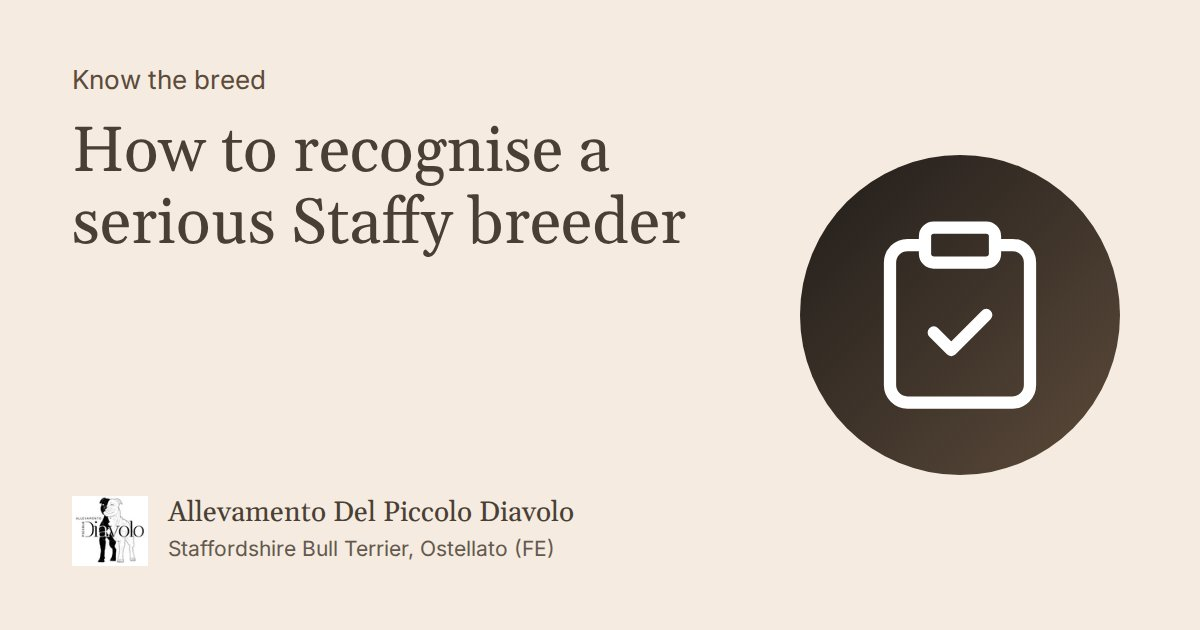
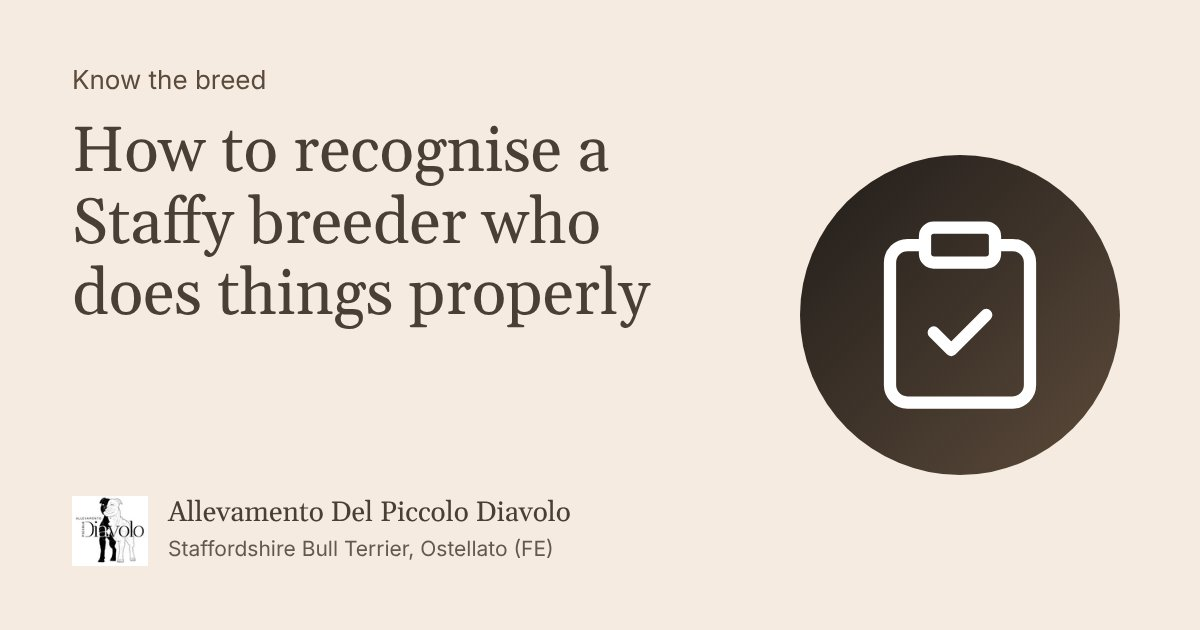
«Allevamento serio» diventa «allevamento che fa le cose per bene» ovunque (titolo della guida, FAQ, link, Blog, llms.txt, schede di condivisione), IT/EN/DE
Claude-Session: https://claude.ai/code/session_01Wpbf6UX9jwa1fzaGtM5hoN

diff --git a/content/de/blog.md b/content/de/blog.md
@@ -38,7 +38,7 @@ custom_content: |
 
   <section class="section">
   <div class="section-inner content-single">
-  <p>Dieser Blog sammelt die Ratgeber, die wir über den Staffordshire Bull Terrier schreiben, nach Themen geordnet: Rasse und Gesetz, Welpen, Standard und Blutlinien, Gesundheit, Familie und Zusammenleben. Es sind keine Artikel, die geschrieben wurden, um die Website zu füllen: Sie entstehen aus den Fragen, die uns wirklich gestellt werden, und wo nötig sagen sie auch das Unbequeme &mdash; dass Tests Grenzen haben, dass Reaktivität gegenüber anderen Hunden existiert, dass eine verbreitete Methode die Belege nicht hat, die sie verspricht. Wo wir eine Zahl nennen, geben wir die Quelle an: ENCI, britischer Kennel Club, tierärztliche Leitlinien oder veröffentlichte Studien. <strong>Die meistgelesenen Ratgeber</strong> sind die darüber, wie man eine seriöse Zucht erkennt, über die Gentests L2-HGA und HC und darüber, wie man eine Ahnentafel liest.</p>
+  <p>Dieser Blog sammelt die Ratgeber, die wir über den Staffordshire Bull Terrier schreiben, nach Themen geordnet: Rasse und Gesetz, Welpen, Standard und Blutlinien, Gesundheit, Familie und Zusammenleben. Es sind keine Artikel, die geschrieben wurden, um die Website zu füllen: Sie entstehen aus den Fragen, die uns wirklich gestellt werden, und wo nötig sagen sie auch das Unbequeme &mdash; dass Tests Grenzen haben, dass Reaktivität gegenüber anderen Hunden existiert, dass eine verbreitete Methode die Belege nicht hat, die sie verspricht. Wo wir eine Zahl nennen, geben wir die Quelle an: ENCI, britischer Kennel Club, tierärztliche Leitlinien oder veröffentlichte Studien. <strong>Die meistgelesenen Ratgeber</strong> sind die darüber, wie man eine Zucht erkennt, die gut arbeitet, über die Gentests L2-HGA und HC und darüber, wie man eine Ahnentafel liest.</p>
   </div>
   </section>
 
@@ -121,12 +121,12 @@ custom_content: |
   </div>
   </article>
   <article class="blog-card">
-  <a href="/de/wie-waehlt-man-eine-staffordshire-bull-terrier-zucht/" title="Lesen: Wie man eine seriöse Zucht erkennt"><div class="blog-card-thumb"><img alt="Staffordshire Bull Terrier Welpen im Gras einer seriösen Zucht" decoding="async" height="188" loading="lazy" src="/images/blog/icone/come-scegliere-allevamento-staffordshire-bull-terrier.webp" width="300"/></div></a>
+  <a href="/de/wie-waehlt-man-eine-staffordshire-bull-terrier-zucht/" title="Lesen: Wie man eine Zucht erkennt, die gut arbeitet"><div class="blog-card-thumb"><img alt="Staffordshire Bull Terrier Welpen im Gras einer seriösen Zucht" decoding="async" height="188" loading="lazy" src="/images/blog/icone/come-scegliere-allevamento-staffordshire-bull-terrier.webp" width="300"/></div></a>
   <div class="blog-card-body">
   <div class="blog-card-meta"><span class="date">18 Jan 2026</span><span>•</span><span class="cat">Welpen</span></div>
-  <h3><a href="/de/wie-waehlt-man-eine-staffordshire-bull-terrier-zucht/" title="Lesen: Wie man eine seriöse Zucht erkennt">Wie man eine seriöse Zucht erkennt</a></h3>
+  <h3><a href="/de/wie-waehlt-man-eine-staffordshire-bull-terrier-zucht/" title="Lesen: Wie man eine Zucht erkennt, die gut arbeitet">Wie man eine Zucht erkennt, die gut arbeitet</a></h3>
   <p>Acht Kriterien und wie man sie überprüft, mit unseren Unterlagen als Beispiel.</p>
-  <a aria-label="Artikel lesen: Wie man eine seriöse Zucht erkennt" class="read" href="/de/wie-waehlt-man-eine-staffordshire-bull-terrier-zucht/">Lesen<span class="sr-only">: Wie man eine seriöse Zucht erkennt</span> →</a>
+  <a aria-label="Artikel lesen: Wie man eine Zucht erkennt, die gut arbeitet" class="read" href="/de/wie-waehlt-man-eine-staffordshire-bull-terrier-zucht/">Lesen<span class="sr-only">: Wie man eine Zucht erkennt, die gut arbeitet</span> →</a>
   </div>
   </article>
   <article class="blog-card">

diff --git a/content/it/blog.md b/content/it/blog.md
@@ -33,7 +33,7 @@ custom_content: |
   </div>
 
   <!-- RAZZA E LEGISLAZIONE -->
-    <p>Questo blog raccoglie le guide che scriviamo sullo Staffordshire Bull Terrier, divise per argomento: razza e legislazione, cuccioli, standard e linee di sangue, salute, famiglia e convivenza. Non sono articoli scritti per riempire il sito: nascono dalle domande che ci fanno davvero, e dove serve dicono anche le cose scomode &mdash; che i test hanno dei limiti, che la reattivit&agrave; verso altri cani esiste, che un metodo diffuso non ha le prove che promette. Dove citiamo un dato, indichiamo la fonte: ENCI, Kennel Club britannico, linee guida veterinarie o studi pubblicati. <strong>Le guide pi&ugrave; lette</strong> sono quelle su come riconoscere un allevamento serio, sui test genetici L2-HGA e HC e su come si legge un pedigree.</p>
+    <p>Questo blog raccoglie le guide che scriviamo sullo Staffordshire Bull Terrier, divise per argomento: razza e legislazione, cuccioli, standard e linee di sangue, salute, famiglia e convivenza. Non sono articoli scritti per riempire il sito: nascono dalle domande che ci fanno davvero, e dove serve dicono anche le cose scomode &mdash; che i test hanno dei limiti, che la reattivit&agrave; verso altri cani esiste, che un metodo diffuso non ha le prove che promette. Dove citiamo un dato, indichiamo la fonte: ENCI, Kennel Club britannico, linee guida veterinarie o studi pubblicati. <strong>Le guide pi&ugrave; lette</strong> sono quelle su come riconoscere un allevamento che fa le cose per bene, sui test genetici L2-HGA e HC e su come si legge un pedigree.</p>
 
   <!--BLOCCO:2-->
   <!--RECENTI-->
@@ -109,12 +109,12 @@ custom_content: |
   </div>
   </article>
   <article class="blog-card">
-  <a href="/come-scegliere-allevamento-staffordshire-bull-terrier/" title="Leggi: Come riconoscere un allevamento serio"><div class="blog-card-thumb"><img alt="Come riconoscere un allevamento Staffordshire Bull Terrier serio" decoding="async" height="188" loading="lazy" src="/images/blog/icone/come-scegliere-allevamento-staffordshire-bull-terrier.webp" width="300"/></div></a>
+  <a href="/come-scegliere-allevamento-staffordshire-bull-terrier/" title="Leggi: Come riconoscere un allevamento che fa le cose per bene"><div class="blog-card-thumb"><img alt="Come riconoscere un allevamento Staffordshire Bull Terrier che fa le cose per bene" decoding="async" height="188" loading="lazy" src="/images/blog/icone/come-scegliere-allevamento-staffordshire-bull-terrier.webp" width="300"/></div></a>
   <div class="blog-card-body">
   <div class="blog-card-meta"><span class="date">18 Gen 2026</span><span>•</span><span class="cat">Cuccioli</span></div>
-  <h3><a href="/come-scegliere-allevamento-staffordshire-bull-terrier/" title="Leggi: Come riconoscere un allevamento serio">Come riconoscere un allevamento serio</a></h3>
+  <h3><a href="/come-scegliere-allevamento-staffordshire-bull-terrier/" title="Leggi: Come riconoscere un allevamento che fa le cose per bene">Come riconoscere un allevamento che fa le cose per bene</a></h3>
   <p>Otto criteri e il modo di verificarli, con i nostri documenti come esempio.</p>
-  <a aria-label="Leggi l'articolo: Come riconoscere un allevamento serio" class="read" href="/come-scegliere-allevamento-staffordshire-bull-terrier/" title="Leggi articolo completo">Leggi<span class="sr-only">: Come riconoscere un allevamento serio</span> →</a>
+  <a aria-label="Leggi l'articolo: Come riconoscere un allevamento che fa le cose per bene" class="read" href="/come-scegliere-allevamento-staffordshire-bull-terrier/" title="Leggi articolo completo">Leggi<span class="sr-only">: Come riconoscere un allevamento che fa le cose per bene</span> →</a>
   </div>
   </article>
   <article class="blog-card">

diff --git a/content/en/blog.md b/content/en/blog.md
@@ -38,7 +38,7 @@ custom_content: |
 
   <section class="section">
   <div class="section-inner content-single">
-  <p>This blog collects the guides we write about the Staffordshire Bull Terrier, divided by topic: breed and legislation, puppies, standard and bloodlines, health, family and living together. They are not articles written to fill the site: they come from the questions people really ask us, and where needed they also say the uncomfortable things &mdash; that tests have limits, that reactivity towards other dogs exists, that a popular method does not have the evidence it promises. Where we cite a figure, we give the source: ENCI, the UK Kennel Club, veterinary guidelines or published studies. <strong>The most read guides</strong> are the ones on how to recognise a serious breeder, on the L2-HGA and HC genetic tests and on how to read a pedigree.</p>
+  <p>This blog collects the guides we write about the Staffordshire Bull Terrier, divided by topic: breed and legislation, puppies, standard and bloodlines, health, family and living together. They are not articles written to fill the site: they come from the questions people really ask us, and where needed they also say the uncomfortable things &mdash; that tests have limits, that reactivity towards other dogs exists, that a popular method does not have the evidence it promises. Where we cite a figure, we give the source: ENCI, the UK Kennel Club, veterinary guidelines or published studies. <strong>The most read guides</strong> are the ones on how to recognise a breeder who does things properly, on the L2-HGA and HC genetic tests and on how to read a pedigree.</p>
   </div>
   </section>
 
@@ -121,12 +121,12 @@ custom_content: |
   </div>
   </article>
   <article class="blog-card">
-  <a href="/en/how-to-choose-a-staffordshire-bull-terrier-breeder/" title="Read: How to recognise a serious breeder"><div class="blog-card-thumb"><img alt="Staffordshire Bull Terrier puppies in the grass at a serious kennel" decoding="async" height="188" loading="lazy" src="/images/blog/icone/come-scegliere-allevamento-staffordshire-bull-terrier.webp" width="300"/></div></a>
+  <a href="/en/how-to-choose-a-staffordshire-bull-terrier-breeder/" title="Read: How to recognise a breeder who does things properly"><div class="blog-card-thumb"><img alt="Staffordshire Bull Terrier puppies in the grass at a serious kennel" decoding="async" height="188" loading="lazy" src="/images/blog/icone/come-scegliere-allevamento-staffordshire-bull-terrier.webp" width="300"/></div></a>
   <div class="blog-card-body">
   <div class="blog-card-meta"><span class="date">18 Jan 2026</span><span>•</span><span class="cat">Puppies</span></div>
-  <h3><a href="/en/how-to-choose-a-staffordshire-bull-terrier-breeder/" title="Read: How to recognise a serious breeder">How to recognise a serious breeder</a></h3>
+  <h3><a href="/en/how-to-choose-a-staffordshire-bull-terrier-breeder/" title="Read: How to recognise a breeder who does things properly">How to recognise a breeder who does things properly</a></h3>
   <p>Eight criteria and how to check each one, with our own documents as the example.</p>
-  <a aria-label="Read the article: How to recognise a serious breeder" class="read" href="/en/how-to-choose-a-staffordshire-bull-terrier-breeder/">Read<span class="sr-only">: How to recognise a serious breeder</span> →</a>
+  <a aria-label="Read the article: How to recognise a breeder who does things properly" class="read" href="/en/how-to-choose-a-staffordshire-bull-terrier-breeder/">Read<span class="sr-only">: How to recognise a breeder who does things properly</span> →</a>
   </div>
   </article>
   <article class="blog-card">

diff --git a/content/de/_index.md b/content/de/_index.md
@@ -98,7 +98,7 @@ custom_content: |
 
   <div class="n-percorso"><div class="n-passo"><h3>Wir haben nicht das ganze Jahr über Welpen.</h3><div><p>Ein Wurf, gelegentlich zwei, manchmal keiner. Wenn Sie uns zu einem Zeitpunkt schreiben, an dem es keine gibt, lautet die Antwort, dass es keine gibt: wir bieten Ihnen nicht den Welpen eines Bekannten an und drängen Sie nicht zu einem künftigen Wurf.</p></div></div><div class="n-passo"><h3>Wir versenden keine Hunde.</h3><div><p>Keiner unserer Welpen reist per Kurier: kein Frachtraum, keine Übergabe auf halbem Weg auf einem Parkplatz. Wer einen Welpen nimmt, kommt nach Ostellato. So sieht er die Mutter, das Haus und den Ort, an dem er aufgewachsen ist.</p></div></div><div class="n-passo"><h3>Wir behandeln die Ahnentafel nicht als Zubehör.</h3><div><p>Es gibt keinen Welpen „mit“ oder „ohne“: die ENCI-Ahnentafel begleitet jeden Hund und wird nicht gesondert berechnet.</p></div></div><div class="n-passo"><h3>Wir nehmen Fragen zur Zucht nicht übel.</h3><div><p>Im Gegenteil, sie sagen uns, wen wir vor uns haben. Wer nach den Tests fragt, nach den Eltern, danach, was passiert, wenn er den Hund in zwei Jahren nicht mehr halten kann, ist die Person, der wir gerne einen Welpen anvertrauen.</p></div></div></div>
   <p class="n-vedi">Wer hinter all dem steht, und wie man von Rottweilern zu Staffys kommt: das erzählen wir unter <a href="/de/ueber-uns/" title="Über uns">über uns</a>.</p>
-  <p class="n-vedi"><a href="/de/wie-waehlt-man-eine-staffordshire-bull-terrier-zucht/">Wie man eine seriöse Zucht erkennt</a>. Acht Kriterien und wie man sie prüft — bei uns wie bei allen anderen.</p>
+  <p class="n-vedi"><a href="/de/wie-waehlt-man-eine-staffordshire-bull-terrier-zucht/">Wie man eine Zucht erkennt, die gut arbeitet</a>. Acht Kriterien und wie man sie prüft — bei uns wie bei allen anderen.</p>
   </div>
   </section>
   <!--/BLOCCO:4-->
@@ -164,7 +164,7 @@ custom_content: |
   <div>
   <p>Das gilt auch umgekehrt. Wenn ein Welpe durch Abstammung frei von einer Krankheit ist, aber nicht von einer anderen, schreiben wir das. Wenn wir von einem fremden Deckrüden den Befund für zwei Erkrankungen haben und nicht für vier, schreiben wir das.</p>
   <p>Es ist der Teil, den niemand gerne erzählt, und es ist auch der Grund, warum der Rest Bestand hat: eine Zucht, die nur die schönen Dinge angibt, informiert nicht, sie wirbt.</p>
-  <p>Wenn Sie uns oder eine andere Zucht beurteilen, finden Sie im Ratgeber <a href="/de/wie-waehlt-man-eine-staffordshire-bull-terrier-zucht/" title="Wie man eine seriöse Zucht erkennt">wie man eine seriöse Zucht erkennt</a> die acht Kriterien und wie man sie prüft, bei uns wie bei allen anderen.</p>
+  <p>Wenn Sie uns oder eine andere Zucht beurteilen, finden Sie im Ratgeber <a href="/de/wie-waehlt-man-eine-staffordshire-bull-terrier-zucht/" title="Wie man eine Zucht erkennt, die gut arbeitet">wie man eine Zucht erkennt, die gut arbeitet</a> die acht Kriterien und wie man sie prüft, bei uns wie bei allen anderen.</p>
   <p>Wie ein Wurf entsteht, erzählen wir im <a href="/de/wuerfe-staffordshire-bull-terrier/" title="Zuchtprogramm">Zuchtprogramm</a>: die Wahl der beiden Elterntiere, die Wochen im Haus, die Zuordnung zur Familie. Dort steht auch die Geschichte der Würfe.</p>
   </div>
   </div>

diff --git a/content/it/_index.md b/content/it/_index.md
@@ -97,7 +97,7 @@ custom_content: |
 
   <div class="n-percorso"><div class="n-passo"><h3>Non abbiamo cuccioli tutto l'anno.</h3><div><p>Una cucciolata, occasionalmente due, a volte nessuna. Se ci scrivi in un momento in cui non ce ne sono, la risposta è che non ce ne sono: non ti proponiamo il cucciolo di un conoscente né ti mettiamo fretta su una cucciolata futura.</p></div></div><div class="n-passo"><h3>Non spediamo cani.</h3><div><p>Nessun nostro cucciolo viaggia con un corriere: niente stive, niente consegne a metà strada in un parcheggio. Chi prende un cucciolo viene a Ostellato. Così vede la madre, la casa e il posto dove è cresciuto.</p></div></div><div class="n-passo"><h3>Non trattiamo il pedigree come un accessorio.</h3><div><p>Non esiste un cucciolo «con» o «senza»: il certificato ENCI accompagna ogni cane e non si paga a parte.</p></div></div><div class="n-passo"><h3>Non ci offendiamo se fai domande sull'allevamento.</h3><div><p>Anzi, sono quelle a dirci chi abbiamo davanti. Chi chiede dei test, dei genitori, di cosa succede se fra due anni non riesce più a tenere il cane, è la persona a cui affideremmo volentieri un cucciolo.</p></div></div></div>
   <p class="n-vedi">Chi c'è dietro tutto questo, e come dai Rottweiler si arriva agli Staffy: lo racconto in <a href="/chi-siamo/" title="Chi siamo">chi siamo</a>.</p>
-  <p class="n-vedi"><a href="/come-scegliere-allevamento-staffordshire-bull-terrier/">Come riconoscere un allevamento serio</a>. Otto criteri e il modo di verificarli, su di noi come su chiunque altro.</p>
+  <p class="n-vedi"><a href="/come-scegliere-allevamento-staffordshire-bull-terrier/">Come riconoscere un allevamento che fa le cose per bene</a>. Otto criteri e il modo di verificarli, su di noi come su chiunque altro.</p>
   </div>
   </section>
   <!--/BLOCCO:4-->
@@ -163,7 +163,7 @@ custom_content: |
   <div>
   <p>Vale anche al contrario. Quando un cucciolo è esente per discendenza da una malattia ma non da un'altra, lo scriviamo. Quando di un riproduttore esterno abbiamo il referto per due patologie e non per quattro, lo scriviamo.</p>
   <p>È la parte che nessuno racconta volentieri, ed è anche la ragione per cui il resto sta in piedi: un allevamento che dichiara solo le cose belle non sta dando informazioni, sta facendo pubblicità.</p>
-  <p>Se stai valutando noi, o un altro allevamento, la guida su <a href="/come-scegliere-allevamento-staffordshire-bull-terrier/" title="Come riconoscere un allevamento serio">come riconoscere un allevamento serio</a> elenca gli otto criteri e come verificarli, su di noi come su chiunque altro.</p>
+  <p>Se stai valutando noi, o un altro allevamento, la guida su <a href="/come-scegliere-allevamento-staffordshire-bull-terrier/" title="Come riconoscere un allevamento che fa le cose per bene">come riconoscere un allevamento che fa le cose per bene</a> elenca gli otto criteri e come verificarli, su di noi come su chiunque altro.</p>
   <p>Come nasce una cucciolata lo raccontiamo nel <a href="/programma-allevamento/" title="Programma di allevamento">programma di allevamento</a>: la scelta dei due riproduttori, le settimane in casa, l'abbinamento con la famiglia. Lì c'è anche lo storico delle cucciolate.</p>
   </div>
   </div>

diff --git a/content/en/_index.md b/content/en/_index.md
@@ -98,7 +98,7 @@ custom_content: |
 
   <div class="n-percorso"><div class="n-passo"><h3>We do not have puppies all year round.</h3><div><p>One litter, occasionally two, sometimes none. If you write to us at a time when there are none, the answer is that there are none: we do not offer you an acquaintance's puppy and we do not rush you towards a future litter.</p></div></div><div class="n-passo"><h3>We do not ship dogs.</h3><div><p>None of our puppies travels by courier: no aircraft holds, no handovers halfway in a car park. Whoever takes a puppy comes to Ostellato. That way they see the mother, the house and the place where it grew up.</p></div></div><div class="n-passo"><h3>We do not treat the pedigree as an accessory.</h3><div><p>There is no such thing as a puppy “with” or “without”: the ENCI certificate goes with every dog and is not charged separately.</p></div></div><div class="n-passo"><h3>We do not take offence at questions about the kennel.</h3><div><p>On the contrary, they are what tell us who we are dealing with. Whoever asks about the tests, the parents, or what happens if in two years' time they can no longer keep the dog, is the person we would gladly entrust a puppy to.</p></div></div></div>
   <p class="n-vedi">Who is behind all this, and how one gets from Rottweilers to Staffies: the story is in <a href="/en/about-us/" title="About us">about us</a>.</p>
-  <p class="n-vedi"><a href="/en/how-to-choose-a-staffordshire-bull-terrier-breeder/">How to recognise a serious breeder</a>. Eight criteria and how to check each one, on us as much as on anyone else.</p>
+  <p class="n-vedi"><a href="/en/how-to-choose-a-staffordshire-bull-terrier-breeder/">How to recognise a breeder who does things properly</a>. Eight criteria and how to check each one, on us as much as on anyone else.</p>
   </div>
   </section>
   <!--/BLOCCO:4-->
@@ -164,7 +164,7 @@ custom_content: |
   <div>
   <p>It also works the other way round. When a puppy is clear by parentage for one disease but not for another, we say so. When for an outside stud we have the report for two conditions and not for four, we say so.</p>
   <p>It is the part nobody likes to tell, and it is also the reason the rest stands up: a kennel that only declares the good things is not giving information, it is advertising.</p>
-  <p>If you are assessing us, or another kennel, the guide on <a href="/en/how-to-choose-a-staffordshire-bull-terrier-breeder/" title="How to recognise a serious breeder">how to recognise a serious breeder</a> lists the eight criteria and how to check them, on us as on anyone else.</p>
+  <p>If you are assessing us, or another kennel, the guide on <a href="/en/how-to-choose-a-staffordshire-bull-terrier-breeder/" title="How to recognise a breeder who does things properly">how to recognise a breeder who does things properly</a> lists the eight criteria and how to check them, on us as on anyone else.</p>
   <p>How a litter comes about is told in the <a href="/en/litters-staffordshire-bull-terrier/" title="Breeding programme">breeding programme</a>: the choice of the two parents, the weeks in the house, the matching with the family. The history of the litters is there too.</p>
   </div>
   </div>

diff --git a/content/de/blutlinien-waehlen.md b/content/de/blutlinien-waehlen.md
@@ -78,7 +78,7 @@ custom_content: |
   <p>Warum genau diese beiden Hunde? Wer ein Programm hat, antwortet mit dem, was jedes Elterntier einbringt, was verbessert werden sollte und welcher Kompromiss dafür akzeptiert wurde. Ohne Programm lautet die Antwort, dass beide schön sind.</p>
   <p>Was würden Sie an diesem Wurf ändern? Wer ehrlich ist, hat eine konkrete Antwort.</p>
   <p>Wo leben die Welpen? Welpen, die in der Küche zwischen Haushaltsgeräuschen aufwachsen, sind, wenn sie abgegeben werden, <a href="/de/sozialisierte-welpen-was-das-heisst/" title="Sozialisierte Welpen: was das wirklich heißt">deutlich besser sozialisiert</a> als Welpen aus einem sauberen Außenzwinger, und der Unterschied bleibt.</p>
-  <p>Was passiert, wenn es nicht funktioniert? Die richtige Antwort lautet, dass der Hund zum Züchter zurückkommen kann, in jedem Alter, aus jedem Grund, und dass es im Vermittlungsvertrag steht. Die vollständige Liste der Fragen und wie man die Antworten prüft, steht im Ratgeber <a href="/de/wie-waehlt-man-eine-staffordshire-bull-terrier-zucht/" title="Eine seriöse Zucht erkennen">eine seriöse Zucht erkennen</a>.</p>
+  <p>Was passiert, wenn es nicht funktioniert? Die richtige Antwort lautet, dass der Hund zum Züchter zurückkommen kann, in jedem Alter, aus jedem Grund, und dass es im Vermittlungsvertrag steht. Die vollständige Liste der Fragen und wie man die Antworten prüft, steht im Ratgeber <a href="/de/wie-waehlt-man-eine-staffordshire-bull-terrier-zucht/" title="Eine Zucht erkennen, die gut arbeitet">eine Zucht erkennen, die gut arbeitet</a>.</p>
   <!--/BLOCCO:6-->
 
   <!--BLOCCO:7-->
@@ -144,7 +144,7 @@ custom_content: |
   <h3>Mehr zum Thema</h3>
   <ul>
   <li><a href="/de/staffy-gentests-l2hga-hc/" title="Staffy Gentests: L2-HGA, HC (HSF4) und DM (SOD1)">Staffy Gentests: L2-HGA, HC (HSF4) und DM (SOD1)</a></li>
-  <li><a href="/de/wie-waehlt-man-eine-staffordshire-bull-terrier-zucht/" title="Seriöse Staffordshire Bull Terrier Zucht erkennen">Seriöse Staffordshire Bull Terrier Zucht erkennen</a></li>
+  <li><a href="/de/wie-waehlt-man-eine-staffordshire-bull-terrier-zucht/" title="Staffordshire Bull Terrier Zucht erkennen, die gut arbeitet">Staffordshire Bull Terrier Zucht erkennen, die gut arbeitet</a></li>
   <li><a href="/de/staffy-rassestandard/" title="FCI Rassestandard Staffordshire Bull Terrier">FCI Rassestandard Staffordshire Bull Terrier</a></li>
   <li><a href="/de/staffy-pitbull-amstaff-unterschied/" title="Staffordshire Bull Terrier, Pitbull und Amstaff im Vergleich">Staffordshire Bull Terrier, Pitbull und Amstaff im Vergleich</a></li>
   </ul>

diff --git a/content/en/choosing-bloodlines.md b/content/en/choosing-bloodlines.md
@@ -78,7 +78,7 @@ custom_content: |
   <p>Why these two dogs? A breeder with a programme answers in terms of what each parent brings, what they hoped to improve and what compromise they accepted. Without one, the answer is that both parents are beautiful.</p>
   <p>What would you change about this litter? Anyone honest has an answer, and it is usually specific.</p>
   <p>Where do the puppies live? Puppies raised in a kitchen among household noise are meaningfully <a href="/en/socialised-puppies-what-it-means/" title="Socialised puppies: what it really means">better socialised by the time they leave</a> than puppies raised in a clean outdoor kennel, and the difference persists.</p>
-  <p>What happens if it does not work out? The right answer is that the dog can come back to the breeder, at any age, for any reason, and that it is written in the placement agreement. The full list of questions to ask, and how to check the answers, is in the guide to <a href="/en/how-to-choose-a-staffordshire-bull-terrier-breeder/" title="How to recognise a serious breeder">how to recognise a serious breeder</a>.</p>
+  <p>What happens if it does not work out? The right answer is that the dog can come back to the breeder, at any age, for any reason, and that it is written in the placement agreement. The full list of questions to ask, and how to check the answers, is in the guide to <a href="/en/how-to-choose-a-staffordshire-bull-terrier-breeder/" title="How to recognise a breeder who does things properly">how to recognise a breeder who does things properly</a>.</p>
   <!--/BLOCCO:6-->
 
   <!--BLOCCO:7-->
@@ -144,7 +144,7 @@ custom_content: |
   <h3>More on this topic</h3>
   <ul>
   <li><a href="/en/staffy-genetic-testing-l2hga-hc/" title="Staffy genetic testing: L2-HGA, HC (HSF4) and DM (SOD1)">Staffy genetic testing: L2-HGA, HC (HSF4) and DM (SOD1)</a></li>
-  <li><a href="/en/how-to-choose-a-staffordshire-bull-terrier-breeder/" title="How to recognise a serious Staffy breeder">How to recognise a serious Staffy breeder</a></li>
+  <li><a href="/en/how-to-choose-a-staffordshire-bull-terrier-breeder/" title="How to recognise a Staffy breeder who does things properly">How to recognise a Staffy breeder who does things properly</a></li>
   <li><a href="/en/staffy-breed-standard/" title="Staffordshire Bull Terrier breed standard explained">Staffordshire Bull Terrier breed standard explained</a></li>
   <li><a href="/en/staffy-pitbull-amstaff-difference/" title="Staffordshire Bull Terrier, Pitbull and Amstaff compared">Staffordshire Bull Terrier, Pitbull and Amstaff compared</a></li>
   </ul>

diff --git a/content/it/come-scegliere-allevamento-staffordshire-bull-terrier.md b/content/it/come-scegliere-allevamento-staffordshire-bull-terrier.md
@@ -1,11 +1,11 @@
 ---
-title: "Come riconoscere un allevamento Staffordshire Bull Terrier serio"
-titleSeo: "Come riconoscere un allevamento di Staffy serio"
+title: "Come riconoscere un allevamento Staffordshire Bull Terrier che fa le cose per bene"
+titleSeo: "Come riconoscere un allevamento di Staffy che fa le cose per bene"
 articolo: true
 translationKey: "come-scegliere"
 image: "/images/blog/cucciolata-erba.avif"
 og_image: "/images/og/schede/it/come-scegliere-allevamento-staffordshire-bull-terrier.jpg"
-og_image_alt: "Come riconoscere un allevamento di Staffy serio — Allevamento Del Piccolo Diavolo"
+og_image_alt: "Come riconoscere un allevamento di Staffy che fa le cose per bene — Allevamento Del Piccolo Diavolo"
 thumb: "/images/blog/icone/come-scegliere-allevamento-staffordshire-bull-terrier.webp"
 description: "Otto criteri per riconoscere un allevamento Staffordshire Bull Terrier serio, ognuno con il modo di verificarlo. Con i nostri documenti come esempio."
 slug: "come-scegliere-allevamento-staffordshire-bull-terrier"
@@ -24,7 +24,7 @@ lastmod: 2026-10-17
 </div>
 <div class="hero-content">
 <span class="hero-eyebrow">Guida</span>
-<h1 class="hero-title">Come riconoscere un allevamento <em>Staffordshire Bull Terrier</em> serio</h1>
+<h1 class="hero-title">Come riconoscere un allevamento <em>Staffordshire Bull Terrier</em> che fa le cose per bene</h1>
 <p class="hero-subtitle">Otto criteri, e il modo di verificarli senza fidarsi sulla parola</p>
 <div class="hero-meta">
 <span>&#9201;&#65039; 8 min lettura</span>
@@ -39,7 +39,7 @@ lastmod: 2026-10-17
 <a href="/" title="Home">Home</a> &rsaquo;
 <a href="/blog/" title="Blog">Blog</a> &rsaquo;
 <a aria-label="Cuccioli &mdash; categoria del blog" href="/blog/#cuccioli" title="Articoli Cuccioli">Cuccioli</a> &rsaquo;
-<span>Come riconoscere un allevamento serio</span>
+<span>Come riconoscere un allevamento che fa le cose per bene</span>
 </nav>
 
 

diff --git a/content/en/how-to-choose-a-staffordshire-bull-terrier-breeder.md b/content/en/how-to-choose-a-staffordshire-bull-terrier-breeder.md
@@ -1,11 +1,11 @@
 ---
-title: "How to recognise a serious Staffordshire Bull Terrier breeder"
-titleSeo: "How to recognise a serious Staffy breeder"
+title: "How to recognise a Staffordshire Bull Terrier breeder who does things properly"
+titleSeo: "How to recognise a Staffy breeder who does things properly"
 articolo: true
 translationKey: "come-scegliere"
 image: "/images/blog/cucciolata-erba.avif"
 og_image: "/images/og/schede/en/how-to-choose-a-staffordshire-bull-terrier-breeder.jpg"
-og_image_alt: "How to recognise a serious Staffy breeder — Allevamento Del Piccolo Diavolo"
+og_image_alt: "How to recognise a Staffy breeder who does things properly — Allevamento Del Piccolo Diavolo"
 thumb: "/images/blog/icone/come-scegliere-allevamento-staffordshire-bull-terrier.webp"
 description: "Eight criteria for recognising a serious Staffordshire Bull Terrier breeder, each with the way to verify it. With our own documents as the worked example."
 slug: "how-to-choose-a-staffordshire-bull-terrier-breeder"
@@ -24,7 +24,7 @@ lastmod: 2026-10-17
 </div>
 <div class="hero-content">
 <span class="hero-eyebrow">Guide</span>
-<h1 class="hero-title">How to recognise a serious <em>Staffordshire Bull Terrier</em> breeder</h1>
+<h1 class="hero-title">How to recognise a <em>Staffordshire Bull Terrier</em> breeder who does things properly</h1>
 <p class="hero-subtitle">Eight criteria, and how to check each one instead of taking it on trust</p>
 <div class="hero-meta">
 <span>&#9201;&#65039; 8 min read</span>
@@ -39,7 +39,7 @@ lastmod: 2026-10-17
 <a href="/en/" title="Home">Home</a> &rsaquo;
 <a href="/en/blog/" title="Blog">Blog</a> &rsaquo;
 <a aria-label="Puppies &mdash; blog category" href="/en/blog/#puppies" title="Puppy articles">Puppies</a> &rsaquo;
-<span>How to recognise a serious breeder</span>
+<span>How to recognise a breeder who does things properly</span>
 </nav>
 
 

diff --git a/content/it/staffordshire-bull-terrier-e-il-cane-giusto-per-te.md b/content/it/staffordshire-bull-terrier-e-il-cane-giusto-per-te.md
@@ -128,7 +128,7 @@ custom_content: |
 
   <div class="callout">
   <p class="callout-title">Il nostro punto di vista</p>
-  <p>Nel <a href="/" title="Allevamento Staffordshire Bull Terrier Del Piccolo Diavolo">nostro allevamento Del Piccolo Diavolo</a> i cuccioli nascono in casa e crescono <strong>in famiglia</strong>: prima nella cassa parto, poi in un box dedicato da cui rientrano ogni giorno, a turno. Questo fa un'enorme differenza sull'equilibrio del cane adulto. Un cucciolo ben socializzato dai suoi primi giorni (a persone, rumori, altri animali) diventa uno Staffy sereno e gestibile. Se decidi che è la razza giusta per te, il passo successivo più importante è scegliere <a href="/come-scegliere-allevamento-staffordshire-bull-terrier/" title="Come scegliere un allevamento">un allevamento serio</a>: è lì che si costruisce (o si rovina) il carattere del tuo futuro compagno.</p>
+  <p>Nel <a href="/" title="Allevamento Staffordshire Bull Terrier Del Piccolo Diavolo">nostro allevamento Del Piccolo Diavolo</a> i cuccioli nascono in casa e crescono <strong>in famiglia</strong>: prima nella cassa parto, poi in un box dedicato da cui rientrano ogni giorno, a turno. Questo fa un'enorme differenza sull'equilibrio del cane adulto. Un cucciolo ben socializzato dai suoi primi giorni (a persone, rumori, altri animali) diventa uno Staffy sereno e gestibile. Se decidi che è la razza giusta per te, il passo successivo più importante è scegliere <a href="/come-scegliere-allevamento-staffordshire-bull-terrier/" title="Come scegliere un allevamento">un allevamento che fa le cose per bene</a>: è lì che si costruisce (o si rovina) il carattere del tuo futuro compagno.</p>
   </div>
   <!--/BLOCCO:6-->
 

diff --git a/content/de/ist-der-staffordshire-bull-terrier-der-richtige-hund.md b/content/de/ist-der-staffordshire-bull-terrier-der-richtige-hund.md
@@ -130,7 +130,7 @@ custom_content: |
 
   <div class="callout">
   <p class="callout-title">Unsere Sichtweise</p>
-  <p>In <a href="/de/" title="Staffordshire Bull Terrier Züchter Del Piccolo Diavolo">unserer Zucht Del Piccolo Diavolo</a> werden die Welpen <strong>in der Familie</strong> geboren und aufgezogen, nicht im Zwinger: Das macht einen enormen Unterschied für die Ausgeglichenheit des erwachsenen Hundes. Ein Welpe, der von seinen ersten Tagen an gut sozialisiert wird (an Menschen, Geräusche, andere Tiere), wird zu einem ruhigen, gut führbaren Staffy. Wenn Sie entscheiden, dass es die richtige Rasse für Sie ist, ist der wichtigste nächste Schritt die Wahl <a href="/de/wie-waehlt-man-eine-staffordshire-bull-terrier-zucht/" title="Zucht wählen">einer seriösen Zucht</a>: Dort wird der Charakter Ihres zukünftigen Begleiters aufgebaut (oder ruiniert).</p>
+  <p>In <a href="/de/" title="Staffordshire Bull Terrier Züchter Del Piccolo Diavolo">unserer Zucht Del Piccolo Diavolo</a> werden die Welpen <strong>in der Familie</strong> geboren und aufgezogen, nicht im Zwinger: Das macht einen enormen Unterschied für die Ausgeglichenheit des erwachsenen Hundes. Ein Welpe, der von seinen ersten Tagen an gut sozialisiert wird (an Menschen, Geräusche, andere Tiere), wird zu einem ruhigen, gut führbaren Staffy. Wenn Sie entscheiden, dass es die richtige Rasse für Sie ist, ist der wichtigste nächste Schritt die Wahl <a href="/de/wie-waehlt-man-eine-staffordshire-bull-terrier-zucht/" title="Zucht wählen">einer Zucht, die gut arbeitet</a>: Dort wird der Charakter Ihres zukünftigen Begleiters aufgebaut (oder ruiniert).</p>
   </div>
   <!--/BLOCCO:6-->
 
